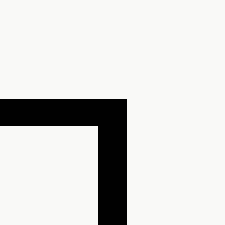
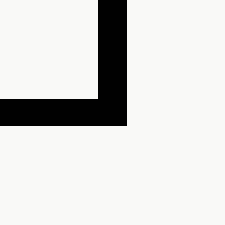
petit changement

Changed region(s): [[0.4356, 0.56, 0.5911, 1.0], [0.4356, 0.0, 0.5911, 0.4667]]

diff --git a/src/casseTete/model/Grille.java b/src/casseTete/model/Grille.java
@@ -81,9 +81,9 @@ public class Grille extends Observable {
 		}else if(lI-vLI != 0 && lI-i != 0 && lJ - vLJ == 0 && lJ- j ==0){
 			this.tab[i][j].setLien(Lien.TRAITHORIZONTAL);
 			this.tab[lI][lJ].setLien(Lien.TRAITHORIZONTAL);
-		}else if(lI-vLI == 1 && lI-i == 0 && lJ - vLJ == 0 && lJ- j != 0 ){
+		}else if(lI-vLI == 1 && lI-i == 0 && lJ - vLJ == 0 && lJ- j == -1 ){
 			this.tab[i][j].setLien(Lien.TRAITVERTICAL);
-			this.tab[lI][lJ].setLien(Lien.ANGLEINFDROIT);
+			this.tab[lI][lJ].setLien(Lien.ANGLESUPDROIT);
 		}else if(lI-vLI == -1 && lI-i == 0 && lJ - vLJ == 0 && lJ- j != 0 ){
 			this.tab[i][j].setLien(Lien.TRAITVERTICAL);
 			this.tab[lI][lJ].setLien(Lien.ANGLESUPGAUCHE);
